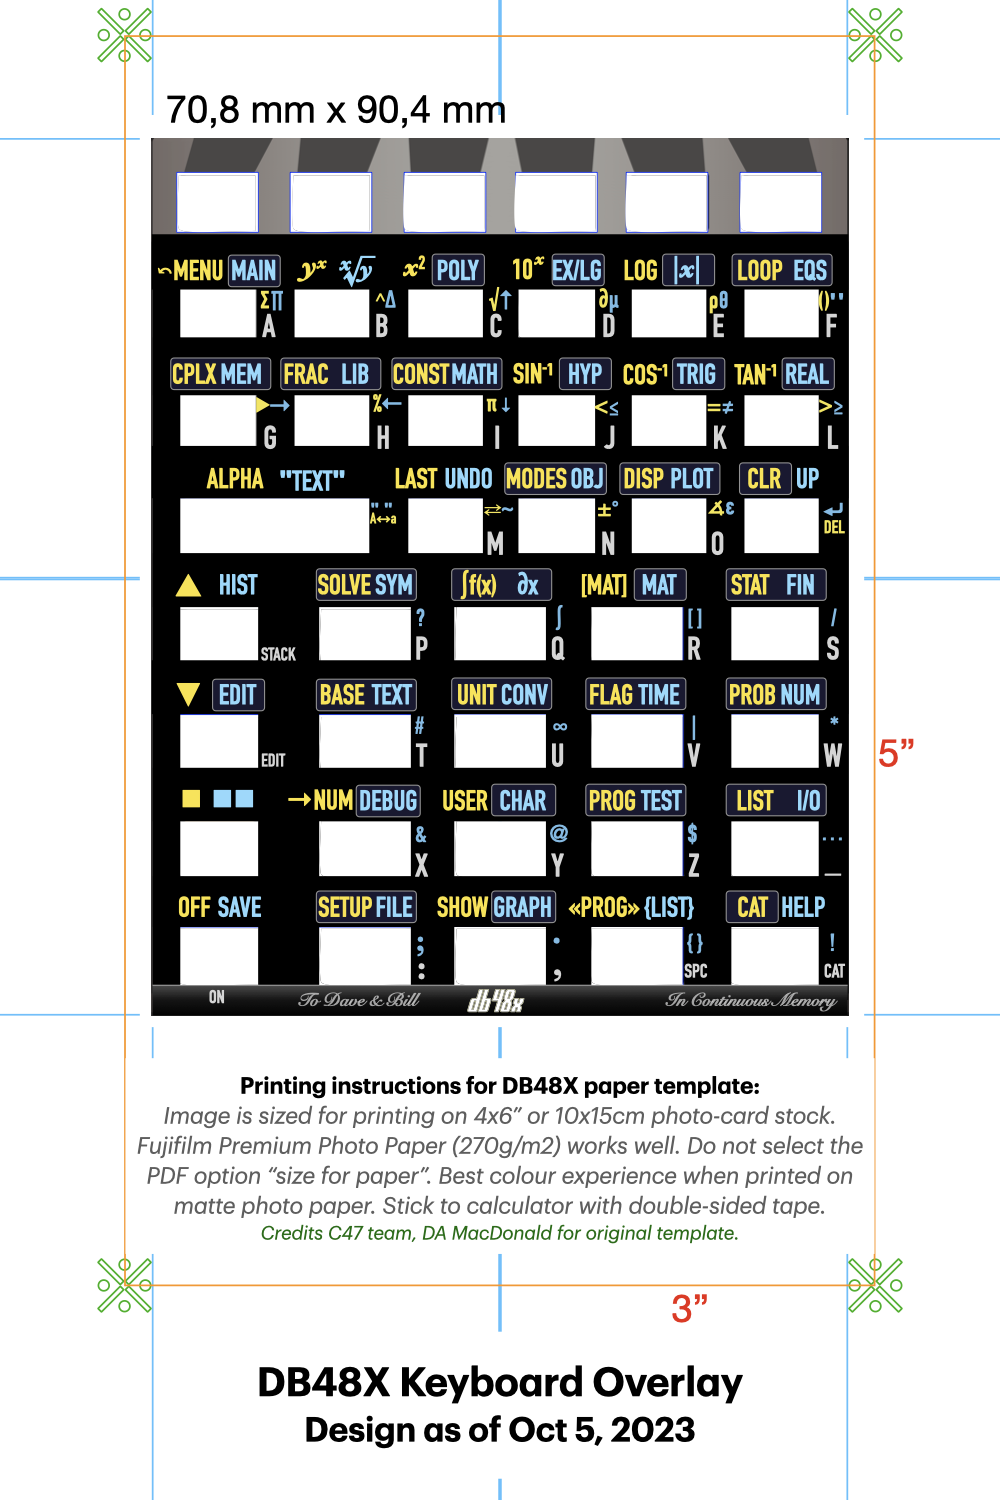
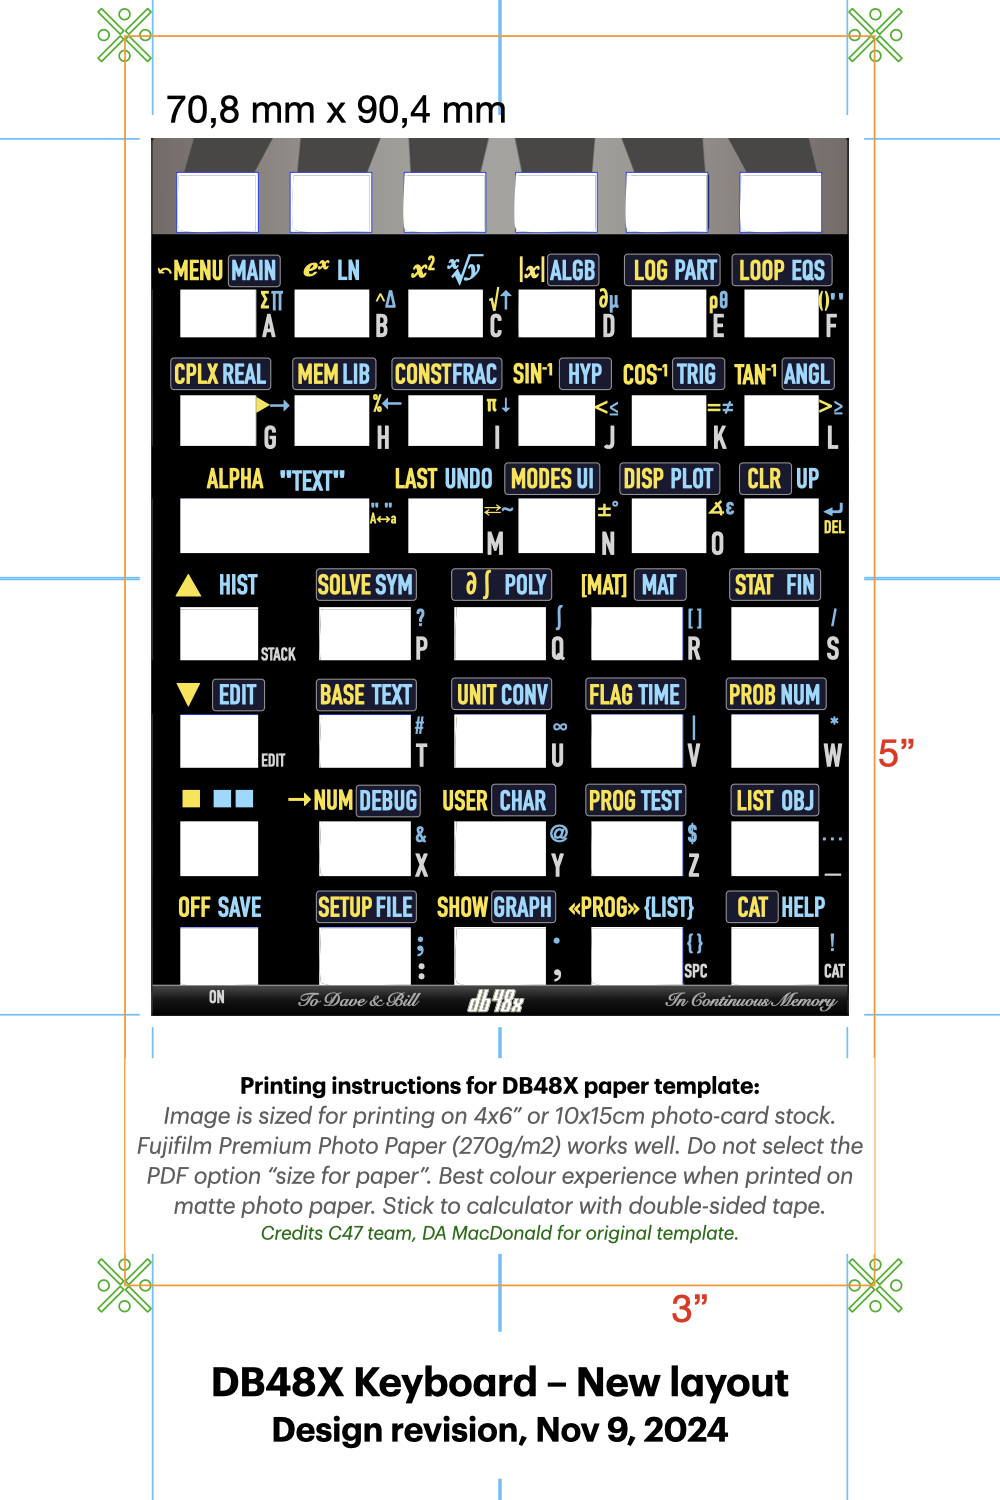
ui: Load keyboard layout picture from disk in simulator
Add three keyboard layouts:

* The 42-style original layout used at the beginning of the project.
* The previous layout with simply `log10` and `exp` swapped.
* The newer layout with `MTH` and `y^x` as primary functions and
  several more dramatic keyboard layout optimizations

Fixes: #472

diff --git a/src/dmcp/sysmenu.cc b/src/dmcp/sysmenu.cc
@@ -132,8 +132,10 @@ const uint8_t settings_menu_items[] =
     MI_SET_TIME,                // Standard set time menu
     MI_SET_DATE,                // Standard set date menu
     MI_BEEP_MUTE,               // Mute the beep
-    MI_DB48_FLASH,              // Mute the beep
+    MI_DB48_FLASH,              // Silent beep
     MI_SLOW_AUTOREP,            // Slow auto-repeat
+    MI_DB48_KEYMAP,             // Select keymap
+
     0
 }; // Terminator
 
@@ -541,6 +543,47 @@ cstring state_name()
 }
 
 
+static int keymap_load_callback(cstring path, cstring name, void *)
+// ----------------------------------------------------------------------------
+//   Callback when a keymap is selected for loading
+// ----------------------------------------------------------------------------
+{
+    // Display the name of the file being saved
+    ui.draw_message("Load keymap",
+                    "Loading key layout...", name);
+
+    if (!ui.load_keymap(path))
+    {
+        file kmap(path, false);
+        ui.draw_message("Keymap load failed",
+                        kmap.valid() ? "Invalid keymap" : kmap.error(),
+                        name);
+        wait_for_key_press();
+        return 1;
+    }
+
+    // Exit with success
+    return MRET_EXIT;
+}
+
+
+static int keymap_load()
+// ----------------------------------------------------------------------------
+//   Load a keymap from disk
+// ----------------------------------------------------------------------------
+{
+    bool display_new = false;
+    bool overwrite_check = false;
+    void *user_data = nullptr;
+    int ret = file_selection_screen("Load keymap",
+                                    "/config", ".48k",
+                                    keymap_load_callback,
+                                    display_new, overwrite_check,
+                                    user_data);
+    return ret;
+}
+
+
 #ifndef SIMULATOR
 int ui_wrap_io(file_sel_fn callback,
                const char *path,
@@ -653,6 +696,7 @@ int menu_item_run(uint8_t menu_id)
 
     case MI_DB48_FLASH:
         Settings.SilentBeepOn(!Settings.SilentBeepOn());                break;
+    case MI_DB48_KEYMAP:   ret = keymap_load();                         break;
 
     case MI_48STATUS:
         ret = handle_menu(&status_bar_menu, MENU_ADD, 0);               break;
@@ -726,6 +770,7 @@ cstring menu_item_description(uint8_t menu_id, char *s, const int UNUSED len)
     case MI_DB48_ABOUT:                 ln = "About >";                 break;
     case MI_DB48_FLASH:
         ln = flag_str(s, "Silent beep", Settings.SilentBeepOn());       break;
+    case MI_DB48_KEYMAP:                ln = "Load keymap";             break;
 
     case MI_48STATE:                    ln = "State >";                 break;
     case MI_48STATE_LOAD:               ln = "Load State";              break;

diff --git a/sim/sim-window.cpp b/sim/sim-window.cpp
@@ -665,6 +665,19 @@ void MainWindow::screenshot(cstring basename, int x, int y, int w, int h)
 }
 
 
+void MainWindow::load_keymap(cstring keymapfile)
+// ----------------------------------------------------------------------------
+//   A new keymap was loaded, update visible keyboard layout on screen
+// ----------------------------------------------------------------------------
+{
+    QFileInfo fi(keymapfile);
+    QString name = fi.baseName() + ".png";
+    QString style = ("border-image: url(:/bitmap/" + name + ") "
+                     "0 0 0 0 stretch stretch;");
+    theMainWindow()->ui.keyboard->setStyleSheet(style);
+}
+
+
 
 // ============================================================================
 //
@@ -1102,6 +1115,14 @@ int ui_wrap_io(file_sel_fn callback, const char *path, void *data, bool)
     return callback(path, name, data);
 }
 
+void ui_load_keymap(cstring name)
+// ----------------------------------------------------------------------------
+//   Change the visible keyboard layout
+// ----------------------------------------------------------------------------
+{
+    MainWindow::load_keymap(name);
+}
+
 
 bool tests::image_match(cstring file, int x, int y, int w, int h, bool force)
 // ----------------------------------------------------------------------------
@@ -1285,6 +1306,5 @@ int ui_wrap_io(file_sel_fn callback, const char *path, void *data, bool)
             name = p + 1;
     return callback(path, name, data);
 }
-
 
 #endif // WASM

diff --git a/src/dmcp/sysmenu.h b/src/dmcp/sysmenu.h
@@ -43,6 +43,7 @@ enum menu_item
     MI_DB48_SETTINGS = 1,       // Application settings
     MI_DB48_ABOUT,              // Display the "About" dialog
     MI_DB48_FLASH,              // Silent flash for beep
+    MI_DB48_KEYMAP,             // Load a keymap
 
     MI_48STATE,                 // Menu for 48 state load and save
     MI_48STATE_CLEAN,           // Restart with a clean state

diff --git a/src/user_interface.cc b/src/user_interface.cc
@@ -55,6 +55,7 @@
 #include "variables.h"
 
 #ifdef SIMULATOR
+#include "sim-dmcp.h"
 #include "tests.h"
 #endif // SIMULATOR
 
@@ -5274,7 +5275,12 @@ bool user_interface::load_keymap(cstring name)
     }
 
     if (result)
+    {
         keymap = result;
+#if SIMULATOR
+        ui_load_keymap(name);
+#endif // SIMULATOR
+    }
 
     return result;
 }

diff --git a/sim/sim-window.h b/sim/sim-window.h
@@ -160,6 +160,7 @@ public:
                                    int     y = 0,
                                    int     w = LCD_W,
                                    int     h = LCD_H);
+    static void         load_keymap(cstring path);
 
     void                startBuzzer(uint frequency);
     void                stopBuzzer();

diff --git a/src/dmcp/sim-dmcp.h b/src/dmcp/sim-dmcp.h
@@ -100,6 +100,7 @@ int       ui_wrap_io(file_sel_fn callback,
                      const char *path,
                      void       *data,
                      bool        writing);
+void      ui_load_keymap(const char *path);
 
 #if WASM
 int       ui_init();

diff --git a/src/dmcp/main.cc b/src/dmcp/main.cc
@@ -224,6 +224,9 @@ void program_init()
 
     // Check if we have a state file to load
     load_system_state();
+
+    // Load default keymap
+    ui.load_keymap("config/keymap.48k");
 }
 
 
